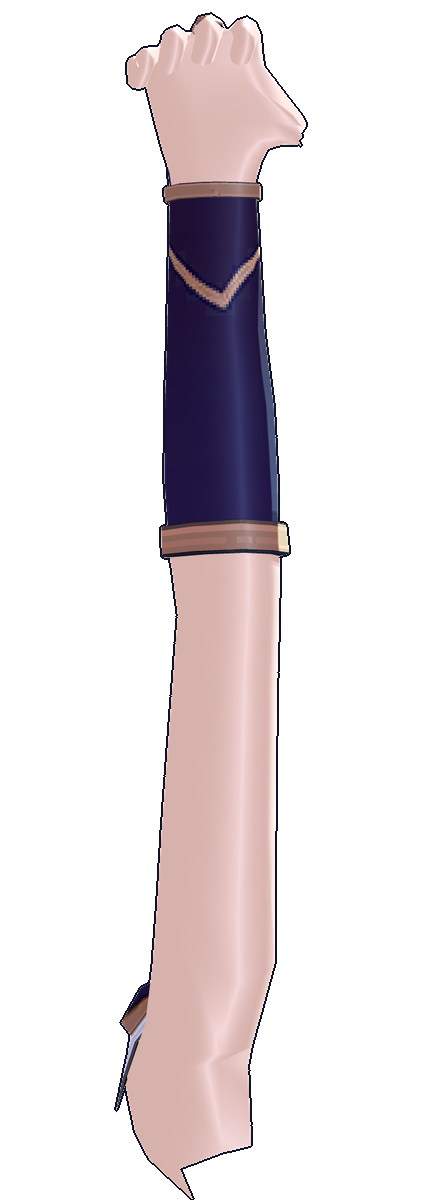
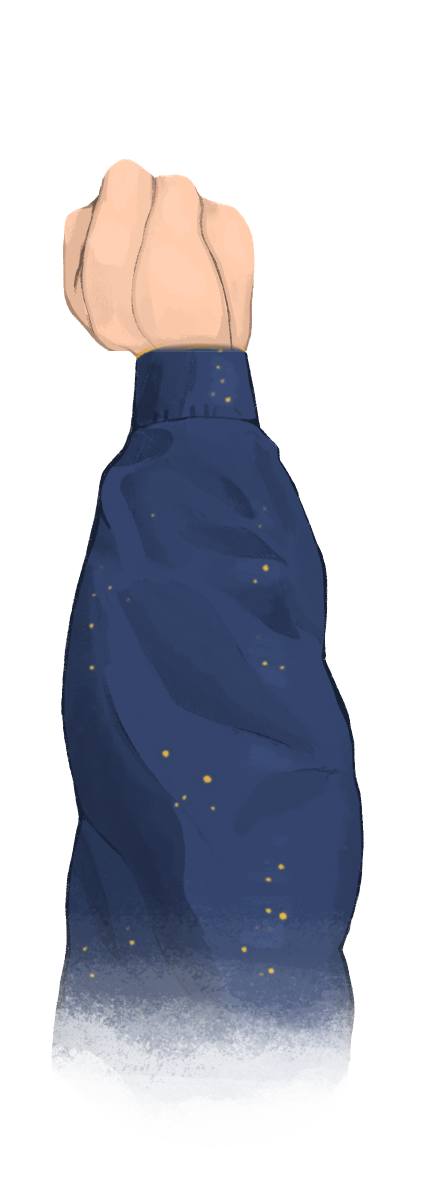
v1.0.6: sharper combat sprite (1.5x re-render) + redrawn multiplayer hands
- creature flipbook re-rendered at 1.5x: the figure is 253x305 source pixels now
  instead of 179x216, while the on-screen height stays ~277 px, so detail is
  downscaled instead of upscaled. pck grows ~40 MB -> ~57 MB.
- multiplayer hand icons rebuilt from the base game's hand art: vanilla composition
  (larger hand, shorter forearm, folded sleeve, bottom fade), longer fingers, and
  her pale-skin / navy-sleeve / gold-speck palette.
- README and Workshop description carry the v1.0.6 changelog in Chinese and English;
  the Workshop text stays under the 8 KB description limit.

diff --git a/README.md b/README.md
@@ -7,7 +7,7 @@
 - 源码仓库：<https://github.com/lndjy/Yetannia>
 - 开发文档 / 项目历史：[`docs/DEVELOPMENT.md`](docs/DEVELOPMENT.md)
 - 发布流程（含发布前的安全与隐私检查）：[`docs/RELEASE-WORKFLOW.md`](docs/RELEASE-WORKFLOW.md)
-- 当前版本：**v1.0.4**（以 `Yetannia/Yetannia.json` 为准）
+- 当前版本：**v1.0.6**（以 `Yetannia/Yetannia.json` 为准）
 
 > ### ⚠ 只支持 beta 分支 · BETA BRANCH ONLY
 >
@@ -194,6 +194,15 @@ Yetannia is a fan work. Character, art and voice assets come from the Chinese mo
 3. 「关闭」只影响耶坦尼娅的台词，**不影响原版音效**；随时可以再打开。
 
 ## 更新记录
+
+### v1.0.6
+
+- **战斗立绘重渲染**：把 3D 模型按 1.5 倍分辨率重新渲染成翻页动画（人物源像素 179×216 → 253×305），
+  但屏幕上的显示尺寸不变（仍是约 277px 高）。头发丝、金边、裙摆这些细节现在是「缩小显示」而不是
+  「放大显示」，实机明显更清晰。代价是包体变大（pck 约 40MB → 57MB）。
+- **联机手部图标重做**：多人游戏里显示在队友/选遗物处的那只手，原本是细长手臂 + 小拳头，现改为
+  与原版同款的构图——手更大、小臂更短、袖子带褶皱并在底部渐隐；手指长度也比之前长了一截
+  （食指 197px）。配色改为她的淡肤色 + 海军蓝袖子 + 金色星点。
 
 ### v1.0.5
 
